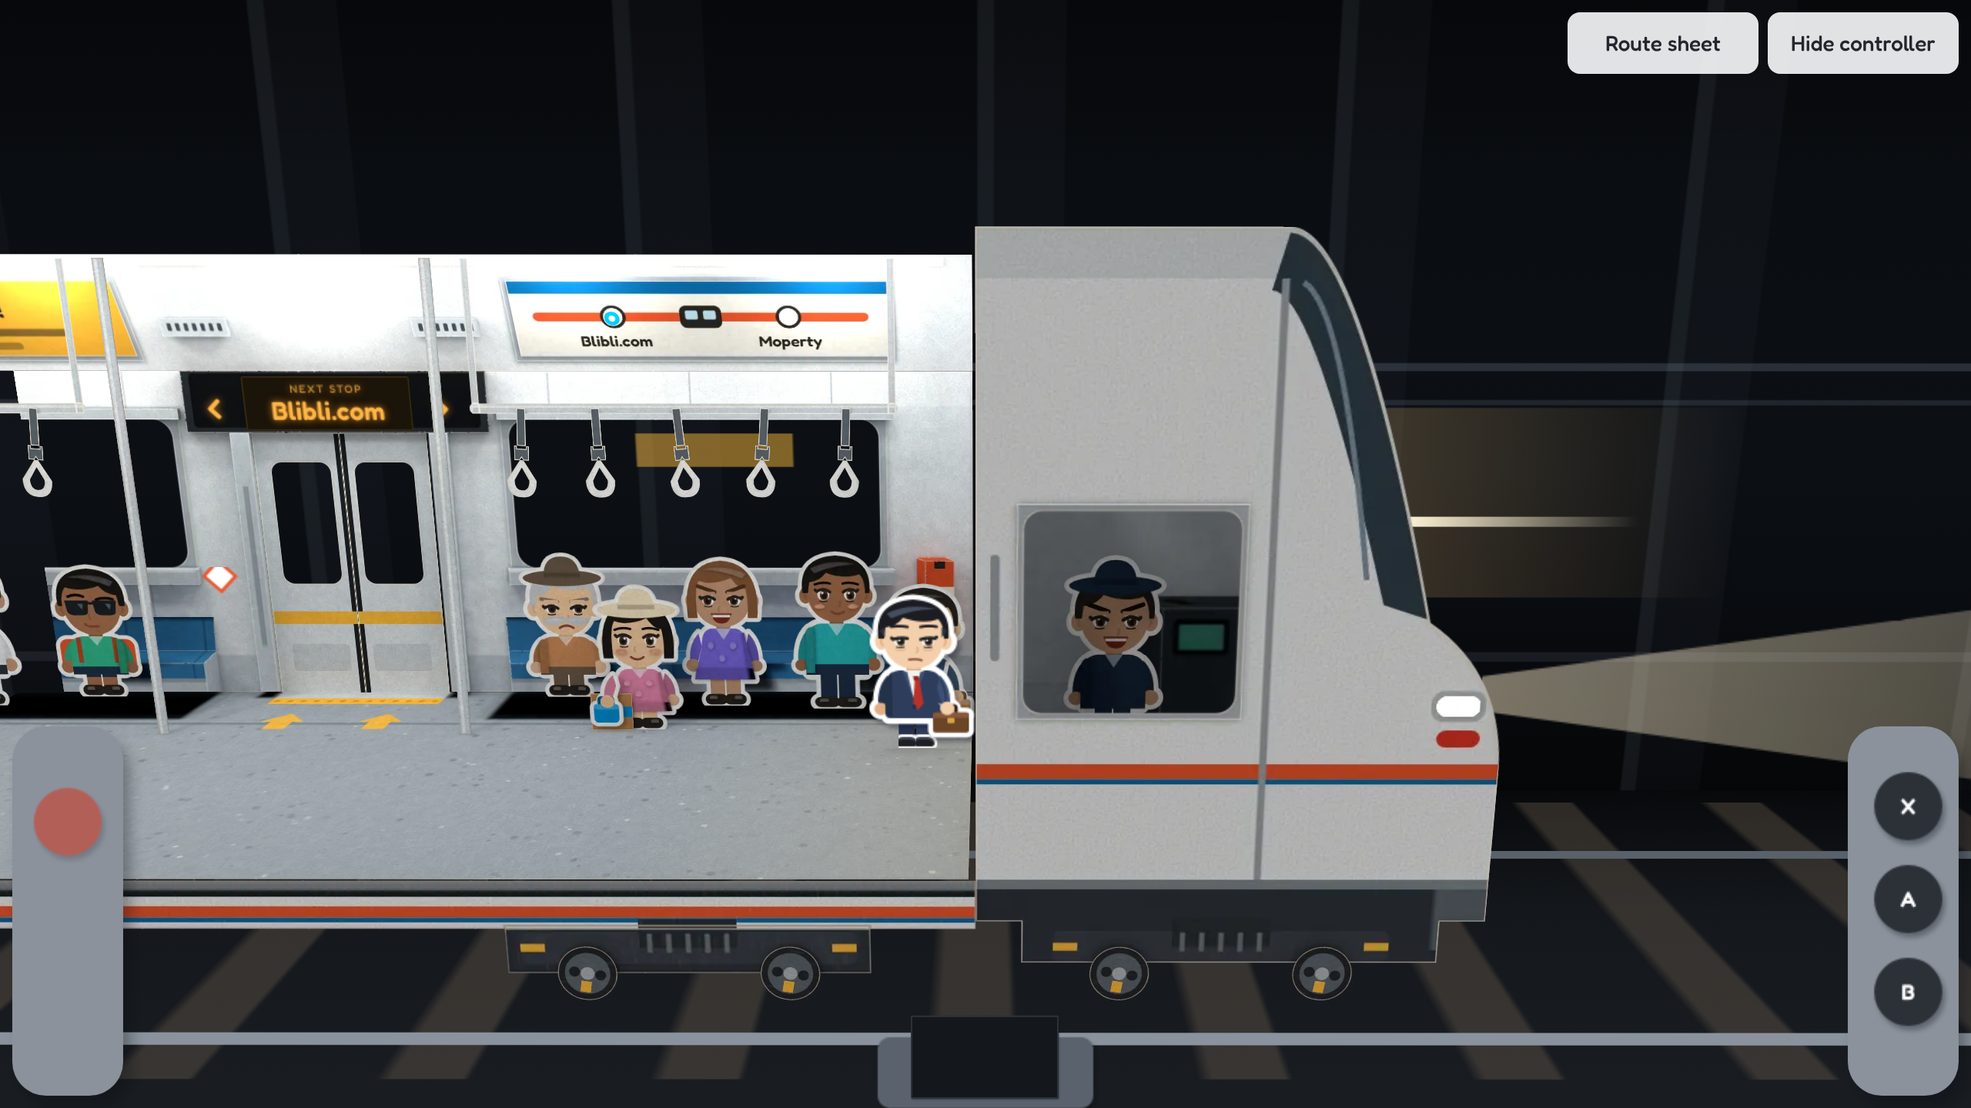
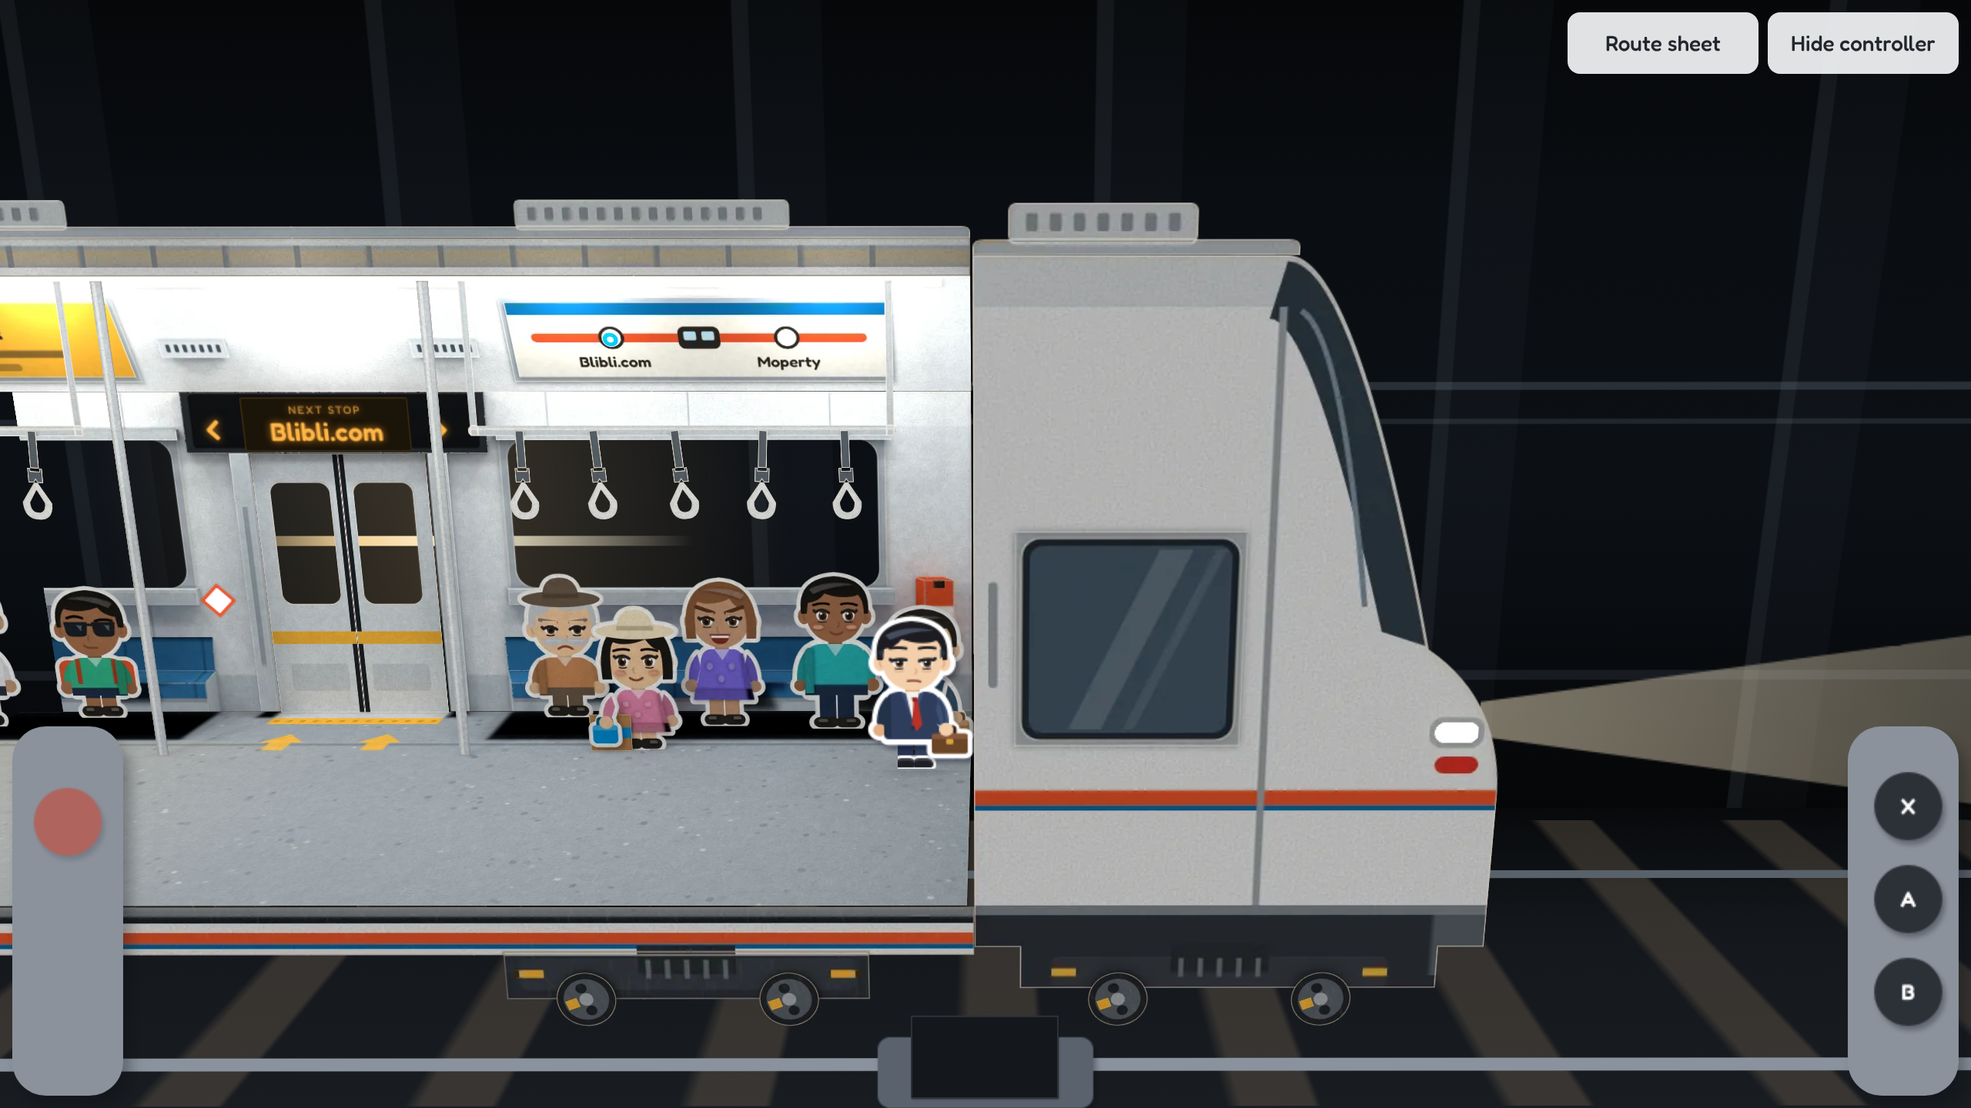
papercraft: the cab and the car behind are closed 2.5D pieces with roofs and plain glass
The driving cab no longer shows an interior or an open top: its window is glass,
and a roof line seen side on, with its housing, closes it. The car behind stands
past the bellows at the other end the same way: shell, glass windows and door,
roof line, bogie and turning wheels. The cut-open passenger car shows its own roof
in section over the cove, so all three stand at one height. Also fixes the door
prompt being clipped at high pixel ratios.

Claude-Session: https://claude.ai/code/session_01YPNotNu69U5sjo281hcv8m

diff --git a/game/src/art/scenes/train.ts b/game/src/art/scenes/train.ts
@@ -17,6 +17,8 @@ export const STATIONS = [{ name: 'Blibli.com', c: BLUE }, { name: 'Moperty', c: 
 const bx = (x: number) => x + W / 2;
 const rounded = (x: number, y: number, w: number, h: number, r: number) => `M${x + r} ${y}h${w - 2 * r}a${r} ${r} 0 0 1 ${r} ${r}v${h - 2 * r}a${r} ${r} 0 0 1 ${-r} ${r}h${-(w - 2 * r)}a${r} ${r} 0 0 1 ${-r} ${-r}v${-(h - 2 * r)}a${r} ${r} 0 0 1 ${r} ${-r}Z`;
 const WIN_H = CAR.WIN[1] - CAR.WIN[0];
+// A window seen from outside: dark glass in a rubber seal, with a slanting glint. Nothing shows through it.
+const glass = (x: number, y: number, w: number, h: number, r: number) => `<path d="${rounded(x, y, w, h, r)}" fill="#26303a"/><path d="${rounded(x + 4, y + 4, w - 8, h - 8, Math.max(2, r - 3))}" fill="#44586a"/><path d="M${x + w * .22} ${y + h - 6}L${x + w * .22 + h * .42} ${y + 6}h${Math.min(18, w * .16)}L${x + w * .22 + Math.min(18, w * .16)} ${y + h - 6}Z" fill="#fff" fill-opacity=".16"/><path d="M${x + w * .22 + 30} ${y + h - 6}L${x + w * .22 + 30 + h * .42} ${y + 6}h6L${x + w * .22 + 36} ${y + h - 6}Z" fill="#fff" fill-opacity=".1"/>`;
 
 const backWall = (): Panel => {
   const holes = WINDOWS.map(([a, b]) => rounded(bx(a), H - CAR.WIN[1], b - a, WIN_H, 14)).join(' ') + ` M${bx(DOOR.x) - DOOR.w / 2} ${H}V${H - DOOR.h}H${bx(DOOR.x) + DOOR.w / 2}V${H}Z`;
@@ -62,16 +64,24 @@ export function train(): Scene {
     motion: { spin: .34 } });
   const wheels = [...BOGIES.flatMap((b, i) => [wheel(`wheel-${i}a`, b - 58), wheel(`wheel-${i}b`, b + 58)]), wheel('wheel-cab-a', CAB.x + 82), wheel('wheel-cab-b', CAB.x + 198)];
 
+  // A roof line seen side on, the way a 2.5D model shows it: the rounded edge of the roof standing along the top of a
+  // shell, with the air-conditioning housings (each [x, width]) rising from it. The camera stands level with the
+  // roofs, so this card is what says the car is closed on top.
+  const roofCap = (id: string, x0: number, w: number, units: [number, number][]): Panel => ({ id, stock: 'cover', c: '#c9d0d6', w, h: 26, o: [x0, CAB.h, FRONT], u: [1, 0, 0], v: [0, 1, 0], edge: 'cut', density: 1.5, split: w > 400 ? Math.ceil(w / 160) : 1,
+    mask: `<path d="M0 26V22Q0 18 6 18H${w - 6}Q${w} 18 ${w} 22V26Z" fill="#fff"/>${units.map(([x, uw]) => `<rect x="${x}" width="${uw}" height="20" rx="4" fill="#fff"/>`).join('')}`,
+    print: `<rect width="${w}" height="26" fill="#c9d0d6"/><rect y="18" width="${w}" height="8" fill="#b3bcc5"/>${units.map(([x, uw]) => `<g fill="#8a939c">${Array.from({ length: Math.floor((uw - 12) / 12) }, (_, k) => `<rect x="${x + 9 + k * 12}" y="5" width="6" height="9" rx="1.5"/>`).join('')}</g>`).join('')}` });
+
   // The front of the train: past the right end wall is the driving cab, closed, seen from outside the way a model
   // shows it. A short shell with a nose sloping down to the headlight, a side window onto the desk and the driver,
   // the windscreen, and its own bogie.
   const cab = (): Panel[] => {
     const { x: x0, w: CW, nose: NOSE, h: NH } = CAB, T = NH + UNDER;
     const outline = `M0 ${T}V0H${CW - NOSE}Q${CW - NOSE + 36} 0 ${CW - 44} ${NH - 152}Q${CW} ${NH - 122} ${CW} ${NH - 62}V${NH + 26}H${CW - 26}V${T - 22}H26V${NH + 26}H0Z`;
-    const win = rounded(26, NH - CAR.WIN[1], CW - NOSE - 44, WIN_H, 10);
+    // Closed and seen from outside, so its window is glass: a dark pane with the tunnel lamps' glint, nothing behind it.
+    const pane = glass(26, NH - CAR.WIN[1], CW - NOSE - 44, WIN_H, 10);
     const shell: Panel = { id: 'cab-shell', stock: 'cover', c: SHELL, w: CW, h: T, o: [x0, -UNDER, FRONT], u: [1, 0, 0], v: [0, 1, 0], edge: 'cut', density: 1.5,
-      mask: `<path fill-rule="evenodd" d="${outline} ${win}" fill="#fff"/>`,
-      print: `<rect width="${CW}" height="${T}" fill="${SHELL}"/><rect width="${CW}" height="26" fill="#d4dbe1"/><rect y="${NH - 70}" width="${CW}" height="9" fill="${LIVERY}"/><rect y="${NH - 61}" width="${CW}" height="3" fill="${DEEP}"/>`
+      mask: `<path d="${outline}" fill="#fff"/>`,
+      print: `<rect width="${CW}" height="${T}" fill="${SHELL}"/><rect width="${CW}" height="26" fill="#d4dbe1"/>${pane}<rect y="${NH - 70}" width="${CW}" height="9" fill="${LIVERY}"/><rect y="${NH - 61}" width="${CW}" height="3" fill="${DEEP}"/>`
         + `<path d="M${CW - NOSE} 3Q${CW - NOSE + 34} 3 ${CW - 46} ${NH - 154}L${CW - 70} ${NH - 162}Q${CW - NOSE + 14} 32 ${CW - NOSE - 8} 32Z" fill="#33404d"/><path d="M${CW - NOSE + 8} 28Q${CW - NOSE + 30} 40 ${CW - 80} ${NH - 176}" stroke="#7d93a6" stroke-width="3" fill="none"/>`
         + `<rect x="${CW - 40}" y="${NH - CAB.light - 9}" width="30" height="18" rx="7" fill="#b7c0c9"/><rect x="${CW - 36}" y="${NH - CAB.light + 14}" width="24" height="10" rx="5" fill="#d8352a"/>`
         + `<rect x="${CW - NOSE - 3}" y="26" width="4" height="${NH - 26}" fill="#9aa4ae"/><rect x="8" y="${NH - 190}" width="5" height="60" rx="2.5" fill="#9aa4ae"/>`
@@ -80,20 +90,44 @@ export function train(): Scene {
       mask: `<path fill-rule="evenodd" d="M0 0H${CW - NOSE - 36}V${WIN_H + 8}H0Z ${rounded(4, 4, CW - NOSE - 44, WIN_H, 10)}" fill="#fff"/>` });
     // The headlight: a lit lens on the nose. Its beam is drawn live by Scene.tsx.
     const lamp = on(shell, 1.6, CW - 37, UNDER + CAB.light - 6, 24, 12, { id: 'cab-headlight', stock: 'vellum', c: '#fff6d8', emit: 3, density: 3, mask: '<rect width="24" height="12" rx="6" fill="#fff"/>' });
-    // Inside, through the window: the far wall with the driver's desk as relief, and the driver at it.
-    const inner: Panel = { id: 'cab-far', stock: 'cover', c: '#d6dde3', w: CW - 40, h: H, o: [x0, 0, BACK + 60], u: [1, 0, 0], v: [0, 1, 0], edge: 'fold', density: 1.1, print: `<rect width="${CW - 40}" height="${H}" fill="#d6dde3"/><rect y="${H - 30}" width="${CW - 40}" height="30" fill="${SHELL_DARK}"/>` };
-    const desk = carved(inner, box({ id: 'cab-desk', x: x0 + 150, z: BACK + 96, w: 96, h: 96, d: 64, stock: 'cover', c: STEEL, front: `<rect width="96" height="96" fill="${STEEL}"/><rect x="8" y="8" width="38" height="26" rx="3" fill="#14171b"/><rect x="12" y="12" width="30" height="18" fill="#5ec3a6"/><rect x="54" y="12" width="34" height="8" rx="3" fill="${SUN}"/><circle cx="62" cy="32" r="5" fill="${CORAL}"/>`, top: `<rect width="96" height="64" fill="#4a5059"/><rect x="18" y="18" width="14" height="28" rx="4" fill="${INK}"/>` }));
-    const driver = shopper('cab-driver', x0 + 84, 60, { lift: 44, coat: '#22324a', legs: '#22324a', skin: '#c99a7a', hair: '#2b2622', hat: '#22324a', build: 'average', face: 'determined' }, false, 1, 0, false);
-    const floor: Panel = { id: 'cab-floor', stock: 'greyboard', c: FLOOR, w: CW - 40, h: D - 62, o: [x0, 0, FRONT - 2], u: [1, 0, 0], v: [0, 0, -1], edge: 'fold', density: .8 };
+    // Its roof, and the roof line seen side on with the radio housing on it.
     const roof: Panel = { id: 'cab-roof', stock: 'cover', c: '#dfe4e8', w: CW - NOSE, h: D, o: [x0, NH, FRONT], u: [1, 0, 0], v: [0, 0, -1], edge: 'fold', density: 1, print: `<rect width="${CW - NOSE}" height="${D}" fill="#dfe4e8"/><rect x="24" y="${D / 2 - 34}" width="68" height="68" rx="6" fill="#c9d0d6"/><circle cx="58" cy="${D / 2}" r="22" fill="#9aa4ae"/>` };
+    const cap = roofCap('cab-cap', x0, CW - NOSE + 6, [[18, 96]]);
     // The sloping windscreen, from the roof edge down the nose: dark glass with a wiper.
     const dx = NOSE - 44, dy = 152, len = Math.hypot(dx, dy);
     const screenTop: Panel = { id: 'cab-windscreen', stock: 'cover', c: '#33404d', w: len, h: D, o: [x0 + CW - NOSE, NH, FRONT], u: [dx / len, -dy / len, 0], v: [0, 0, -1], edge: 'fold', density: 1,
       print: `<rect width="${len}" height="${D}" fill="${SHELL}"/><rect x="8" y="14" width="${len - 18}" height="${D - 28}" rx="12" fill="#33404d"/><rect x="14" y="20" width="${len - 30}" height="${D - 40}" rx="9" fill="#4f6578"/><path d="M${len * .62} ${D / 2}L${len * .2} ${D / 2 - 64}" stroke="${INK}" stroke-width="4"/>` };
     // The nose below the windscreen, front on: where the coupler sits.
     const noseFace: Panel = { id: 'cab-nose', stock: 'cover', c: SHELL_DARK, w: D, h: NH - 62 + 0, o: [x0 + CW, 0, FRONT], u: [0, 0, -1], v: [0, 1, 0], edge: 'fold', density: .9, ghost: true };
-    return [shell, frame, lamp, inner, ...desk, ...driver, floor, roof, screenTop, noseFace];
+    return [shell, frame, lamp, roof, cap, screenTop, noseFace];
   };
+  // The car behind, past the left end wall: closed too, the same shell with glass windows, a door, its roof and the
+  // bogie at its near end. Between the two cars hangs the gangway bellows.
+  const NH = CAB.h, REAR = { w: 560, x: -W / 2 - 34 - 560 };
+  const rearCar = (): Panel[] => {
+    const { w: NW, x: x0 } = REAR, T = NH + UNDER, bog = NW - 150;
+    const shell: Panel = { id: 'rear-shell', stock: 'cover', c: SHELL, w: NW, h: T, o: [x0, -UNDER, FRONT], u: [1, 0, 0], v: [0, 1, 0], edge: 'cut', density: 1.3, split: 7,
+      mask: `<path d="M0 0H${NW}V${NH + 26}H${bog + 104}V${T - 16}H${bog - 104}V${NH + 26}H0Z" fill="#fff"/>`,
+      print: `<rect width="${NW}" height="${T}" fill="${SHELL}"/><rect width="${NW}" height="26" fill="#d4dbe1"/>${glass(40, NH - CAR.WIN[1], 170, WIN_H, 12)}${glass(396, NH - CAR.WIN[1], 140, WIN_H, 12)}`
+        + `<rect x="238" y="${NH - 212}" width="130" height="212" fill="#d6dde3"/><rect x="232" y="${NH - 218}" width="142" height="8" fill="#9aa4ae"/><rect x="302" y="${NH - 212}" width="2" height="212" fill="${INK}"/>${glass(248, NH - 196, 46, 100, 7)}${glass(312, NH - 196, 46, 100, 7)}<rect x="238" y="${NH - 64}" width="130" height="8" fill="${SUN}"/>`
+        + `<rect y="${NH - 70}" width="232" height="9" fill="${LIVERY}"/><rect y="${NH - 61}" width="232" height="3" fill="${DEEP}"/><rect x="374" y="${NH - 70}" width="${NW - 374}" height="9" fill="${LIVERY}"/><rect x="374" y="${NH - 61}" width="${NW - 374}" height="3" fill="${DEEP}"/>`
+        + Array.from({ length: 4 }, (_, k) => `<path d="M${(k + 1) * NW / 5} 26V${NH}" stroke="#c3cad1" stroke-width="1.2"/>`).join('')
+        + `<rect y="${NH}" width="${NW}" height="${UNDER}" fill="#2f353d"/><rect y="${NH}" width="${NW}" height="6" fill="#7e8893"/>${bogie(bog, NH)}` };
+    const roof: Panel = { id: 'rear-roof', stock: 'cover', c: '#dfe4e8', w: NW, h: D, o: [x0, NH, FRONT], u: [1, 0, 0], v: [0, 0, -1], edge: 'fold', density: 1, split: 2,
+      print: `<rect width="${NW}" height="${D}" fill="#dfe4e8"/>${Array.from({ length: 5 }, (_, k) => `<path d="M${(k + 1) * NW / 6} 0V${D}" stroke="#c3cad1" stroke-width="1.4"/>`).join('')}` };
+    const cap = roofCap('rear-cap', x0, NW, [[60, 190], [NW - 290, 200]]);
+    const bellows: Panel = { id: 'bellows', stock: 'greyboard', c: '#2b3037', w: 38, h: NH + 8, o: [-W / 2 - 36, -14, FRONT - 6], u: [1, 0, 0], v: [0, 1, 0], edge: 'fold', density: 1.4, print: `<rect width="38" height="${NH + 8}" fill="#2b3037"/>${Array.from({ length: 6 }, (_, k) => `<rect x="${3 + k * 6}" width="3" height="${NH + 8}" fill="#4a5059"/>`).join('')}` };
+    return [shell, roof, cap, bellows, wheel('wheel-rear-a', x0 + bog - 58), wheel('wheel-rear-b', x0 + bog + 58)];
+  };
+  // Our own car is cut open along its near side, but it has its roof: it shows in section over the cove, and on it
+  // the air-conditioning housings, so the three pieces of the train stand at one height.
+  const ROOF_Z = BACK + COVE_IN;
+  const roofCut: Panel = { id: 'roof-cut', stock: 'greyboard', c: '#9aa4ae', w: W, h: NH - CAR.CEIL, o: [-W / 2, CAR.CEIL, ROOF_Z], u: [1, 0, 0], v: [0, 1, 0], edge: 'cut', density: 1.5, split: 4,
+    print: `<rect width="${W}" height="${NH - CAR.CEIL}" fill="#aab3bc"/><rect width="${W}" height="5" fill="#dfe4e8"/><rect y="8" width="${W}" height="9" fill="#c3b79c"/><rect y="${NH - CAR.CEIL - 6}" width="${W}" height="6" fill="#f4f6f8"/>${Array.from({ length: Math.floor(W / 50) }, (_, k) => `<rect x="${k * 50 + 20}" y="5" width="4" height="${NH - CAR.CEIL - 11}" fill="#8a939c"/>`).join('')}` };
+  const roofTop: Panel = { id: 'roof-top', stock: 'cover', c: '#dfe4e8', w: W, h: COVE_IN + 8, o: [-W / 2, NH, ROOF_Z], u: [1, 0, 0], v: [0, 0, -1], edge: 'fold', density: 1.1, split: 4, print: `<rect width="${W}" height="${COVE_IN + 8}" fill="#dfe4e8"/>${Array.from({ length: 8 }, (_, k) => `<path d="M${(k + 1) * W / 9} 0V${COVE_IN + 8}" stroke="#c3cad1" stroke-width="1.4"/>`).join('')}` };
+  const ownCap = { ...roofCap('roof-cap', -W / 2, W, [[W / 2 - 345, 190], [W / 2 + 155, 190]]), o: [-W / 2, NH, ROOF_Z] as V3 };
+  const ownRoof = [roofCut, roofTop, ownCap];
+
   // The ceiling, facing down: plain panels and two recessed grilles. The light strip sits where it meets the cove.
   const CEIL_D = D - COVE_IN;
   const ceiling: Panel = { id: 'ceiling', stock: 'cover', c: '#f1f4f6', w: W, h: CEIL_D, o: [-W / 2, CAR.CEIL, BACK + COVE_IN], u: [1, 0, 0], v: [0, 0, 1], edge: 'fold', density: 1, split: 4,
@@ -203,11 +237,11 @@ export function train(): Scene {
   const suitcase = box({ id: 'suitcase', x: -444, z: BACK + 96, w: 40, h: 58, d: 26, rot: 10, stock: 'cover', c: '#2f6f9f', front: `<rect x="6" y="6" width="28" height="46" rx="4" fill="none" stroke="#1f4d70" stroke-width="2"/><rect x="16" y="2" width="8" height="4" fill="${INK}"/>`, top: `<rect x="14" y="8" width="12" height="10" rx="3" fill="none" stroke="${INK}" stroke-width="2.4"/>` }).filter(p => !/rear|under|left/.test(p.id));
   const bag: Panel = { id: 'shop-bag', stock: 'kraft', c: KRAFT, w: 30, h: 38, o: [196, 0, BACK + 78], u: [1, 0, 0], v: [0, 1, 0], edge: 'cut', density: 3, mask: '<path d="M0 38V10H8Q8 0 15 0Q22 0 22 10H30V38Z M11 10Q11 4 15 4Q19 4 19 10Z" fill="#fff" fill-rule="evenodd"/>', print: `<rect width="30" height="38" fill="${KRAFT}"/><rect y="20" width="30" height="8" fill="${BLUE}"/>` };
 
-  const panels: Panel[] = [fl, section, undercar, ...wheels, ...cab(), back, cv, ceiling, endWall(-1, 'wall-left'), endWall(1, 'wall-right'), strip,
+  const panels: Panel[] = [fl, section, undercar, ...wheels, ...cab(), ...rearCar(), ...ownRoof, back, cv, ceiling, endWall(-1, 'wall-left'), endWall(1, 'wall-right'), strip,
     ...winFrames, doorFrame, ...leaves, ...wallTrim, helpSign, priority, ...hello, ...lineMap, ...lamps, ...coveTrim,
     ...benches, ...poles, rail('rail-l', -420, -130), rail('rail-r', 130, 420), ...straps, ...people, ...suitcase, bag];
   return {
-    id: 'train', camera: { zoom: 1.12, x0: -260, x1: 480 }, panels,
+    id: 'train', camera: { zoom: 1.12, x0: -320, x1: 480 }, panels,
     // No sun underground: the car is lit by its own ceiling strips, with a little fill through the cut.
     light: { sun: .5, sky: .5, skyColor: [1, .97, .92] },
     lamps: [-370, -185, 0, 185, 370].flatMap(x => [{ at: [x, CAR.CEIL - 14, -80] as V3, color: [1, .98, .92] as const, energy: 30 }, { at: [x, CAR.CEIL - 14, 70] as V3, color: [1, .98, .92] as const, energy: 22 }])

diff --git a/game/src/content.ts b/game/src/content.ts
@@ -16,7 +16,7 @@ export const content: Content = validateContent({ worlds: {
   intro: { id: 'intro', art: 'blockout', bounds: { x0: -420, x1: 420, z0: 0, z1: 0 }, solid: [], title: 'Handheld', path: 'round', color: '#8d95a0',
     stops: [{ id: 'road-end', label: 'Dock', x: 400, z: 0, reach: 300, action: { kind: 'dock' } }], letters: [] },
   // Home: the inside of an MRT car on its way. The sign over the door chooses the stop; the doors get off there.
-  mrt: { id: 'mrt', art: 'train', camera: { zoom: 1.12, x0: -260, x1: 480, lift: 170, liftTall: 90, ahead: 190 }, bounds: { x0: -430, x1: 430, z0: -40, z1: 110 }, solid: [], title: 'MRT', path: 'round', color: '#8d95a0',
+  mrt: { id: 'mrt', art: 'train', camera: { zoom: 1.12, x0: -320, x1: 480, lift: 186, liftTall: 90, ahead: 190 }, bounds: { x0: -430, x1: 430, z0: -40, z1: 110 }, solid: [], title: 'MRT', path: 'round', color: '#8d95a0',
     stops: [
       { id: 'door', label: 'Doors', x: 0, z: -40, reach: 110, action: { kind: 'ride', toy: 'line', to: [
         { world: 'blibli', stop: 'mailbox', label: 'Blibli.com' }, { world: 'moperty', stop: 'first-house', label: 'Moperty' } ] } },

diff --git a/game/src/styles.css b/game/src/styles.css
@@ -229,5 +229,8 @@ button { font:inherit; cursor:pointer; }
 .dest :focus-visible { outline-offset:-2px; }
 /* The doors' stop: its tap area ends below the sign, and its label says what A and B do there. */
 .art-train .sign.hit { height:150px; }
+/* The label and the A bubble hang outside the tap area. Among the train's live sheets the browser clips them to it at
+   high pixel ratios unless each is its own layer. */
+.art-train .sign.hit > span,.art-train .sign.hit .prompt { will-change:transform; }
 .sign.hit > span em { font-style:normal; display:inline-grid; place-items:center; width:18px; height:18px; margin:0 3px 0 8px; border-radius:50%; background:#2c3138; color:#fff; font-size:11px; line-height:18px; }
 @media (prefers-reduced-motion:reduce) { .art-train .car,.pp.swings,.pp.spins,.rush,.beam,.dest-go b { animation:none; } .platform-light { transition:none; } .floor-light { display:none; } }

diff --git a/game/docs/ART_BIBLE.md b/game/docs/ART_BIBLE.md
@@ -134,9 +134,12 @@ The game opens inside the front car of an MRT train running underground (`scenes
 
 ![The front of the train](spaces/mrt-front.png)
 
-- **What is built.** The passenger car's inside; its underframe in section along the cut, with two bogies; and, past the right end wall, the driving cab seen from outside: nose, windscreen, headlight, the driver at the desk through the side window, and its own bogie. Nothing else of the train's outside is modelled.
+![The car behind](spaces/mrt-rear.png)
+
+- **What is built.** Three pieces of one train, standing at one height. In the middle, the passenger car, cut open along its near side: its inside, its underframe in section along the cut with two bogies, and its roof in section over the cove. To the right, the driving cab; to the left, past the gangway bellows, the next car. Those two are closed and seen from outside, 2.5D: a shell with glass windows that show nothing through them, a roof line seen side on with its housings, and a bogie.
+- **Closed pieces stay closed.** The camera stands level with the roofs, so a roof's top is edge on to it. What says "this has a roof" is the roof line card along the top of each shell; never leave a shell open at the top or show an interior through its glass.
 - **The tunnel is live, not baked** (`.bore`, `.bed` in `styles.css`). Behind the whole train stands the tunnel's far wall, nearly black, with rings, cable runs, work lamps and marker boards rushing back. Under it lies the track bed: two rails and sleepers streaking by. The headlight throws a beam down the tunnel ahead, and the lamps' light sweeps over the car floor.
-- **Everything that says "moving" runs at one speed.** The tunnel, the sleepers, the six wheels (their own sheets, turning), the car's sway and its knock over rail joints, and the swinging hand straps are looping animations whose rate `Scene.tsx` sets from the train's speed. The train pulls away as the scene opens, cruises, and brakes to a stand when it reaches the chosen stop. Reduced motion holds all of it still.
+- **Everything that says "moving" runs at one speed.** The tunnel, the sleepers, the eight wheels (their own sheets, turning), the car's sway and its knock over rail joints, and the swinging hand straps are looping animations whose rate `Scene.tsx` sets from the train's speed. The train pulls away as the scene opens, cruises, and brakes to a stand when it reaches the chosen stop. Reduced motion holds all of it still.
 - No sun reaches the car. It is lit by its own ceiling strips, baked as lamps.
 - The passengers and the driver are the street's cast (`shopper` in `promenade.ts`): same cut, builds and faces. Seated ones stand at the bench's front edge, lifted so the hips meet the cushion.
 - The destination sign over the door is the one piece of live type in a paper scene: the bake carries its dark casing, the game sets the amber text. Its arrows (or B at the doors) turn it between the stops the line serves, Blibli.com and Moperty. Pressing the name (or A at the doors) stops the train, brings the platform's light up behind the windows, opens the doors and walks the salaryman out, and the scene swaps.
@@ -179,7 +182,7 @@ Measured on the worst case: software GPU, 4x CPU throttle, DPR 2.625, landscape.
 | Space | Quad limit, enforced by the journey test |
 |---|---|
 | Street (riverside promenade) | 210 (uses 209) |
-| MRT car | 110 (uses 87) |
+| MRT car | 125 (uses 109) |
 | First-floor outlet | 75 |
 | Second-floor store-room | 115 |
 
